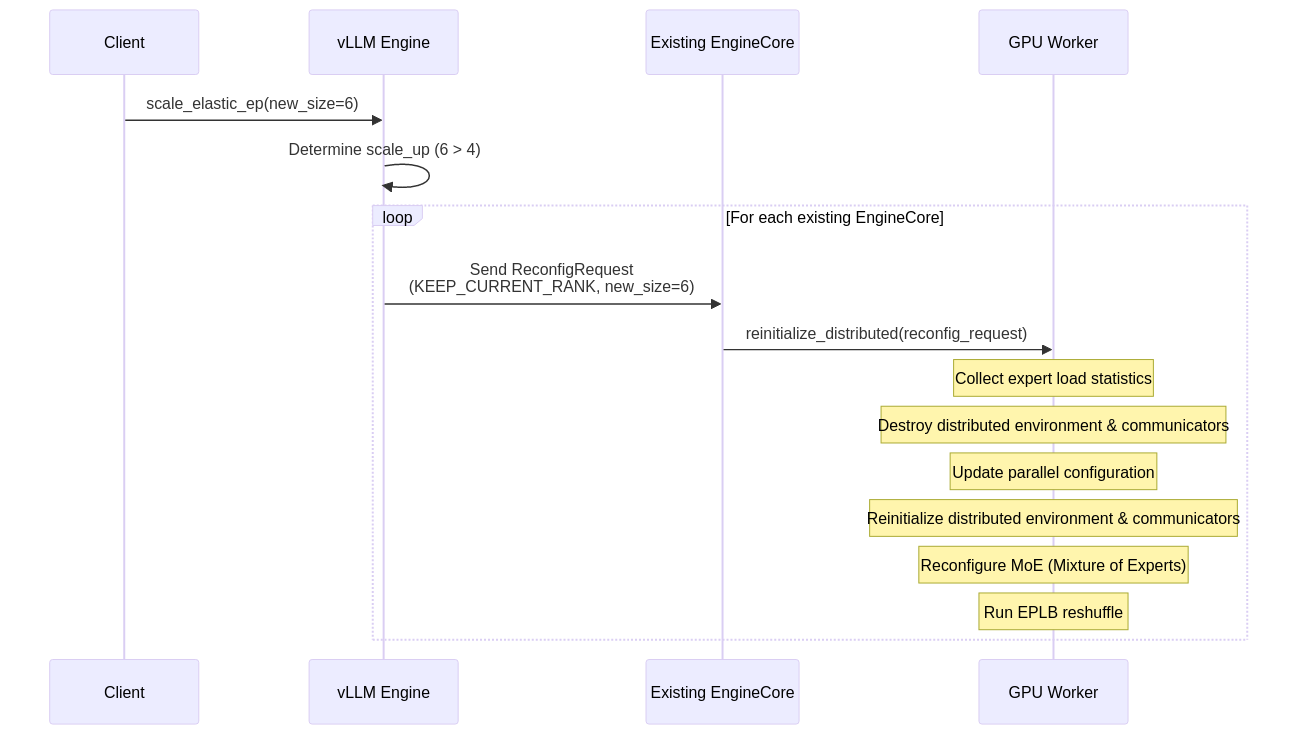
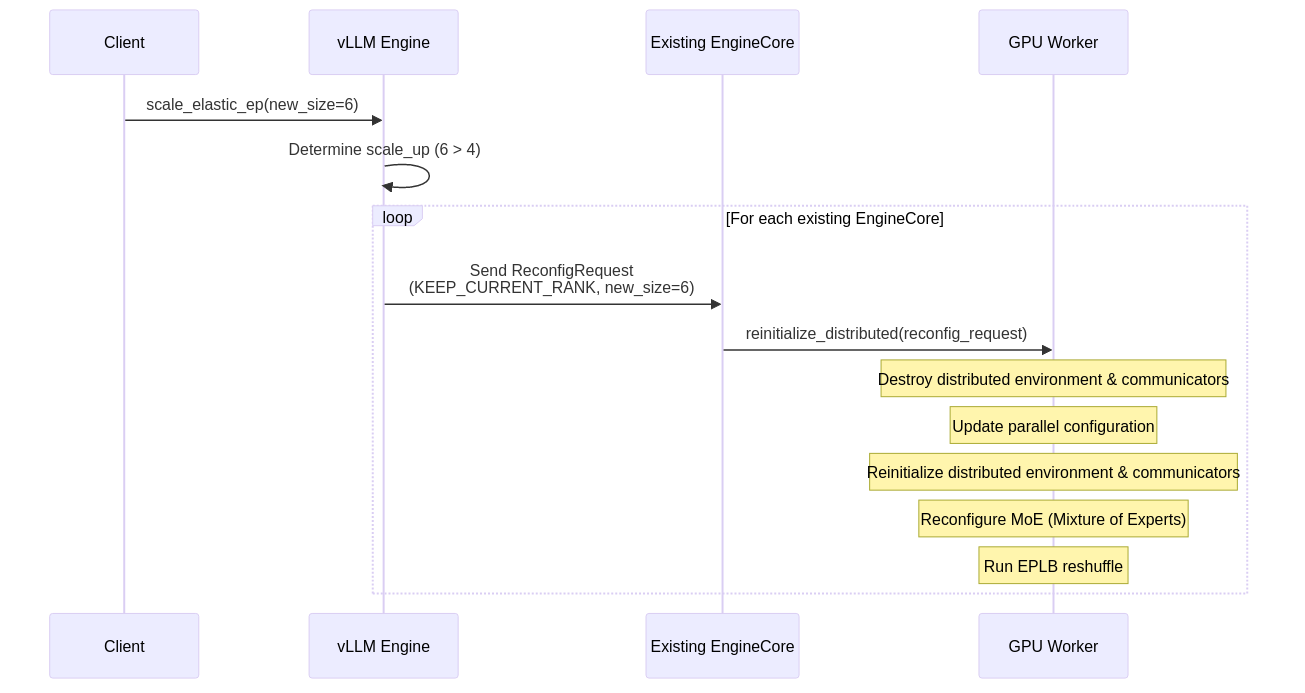
up

diff --git a/detailed_scale_up_existing.md b/detailed_scale_up_existing.md
@@ -15,9 +15,7 @@ sequenceDiagram
     loop For each existing EngineCore
         Engine->>ExistingEngineCore: Send ReconfigRequest<br/>(KEEP_CURRENT_RANK, new_size=6)
         ExistingEngineCore->>Worker: reinitialize_distributed(reconfig_request)
-        
-        Note over Worker: Collect expert load statistics
-        
+                
         Note over Worker: Destroy distributed environment & communicators
         
         Note over Worker: Update parallel configuration
